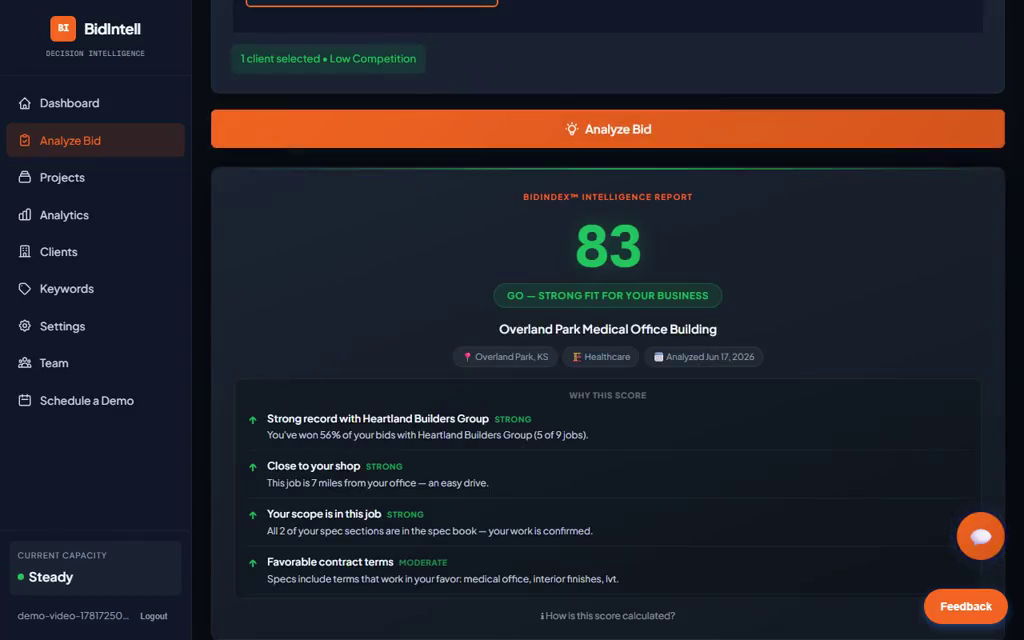
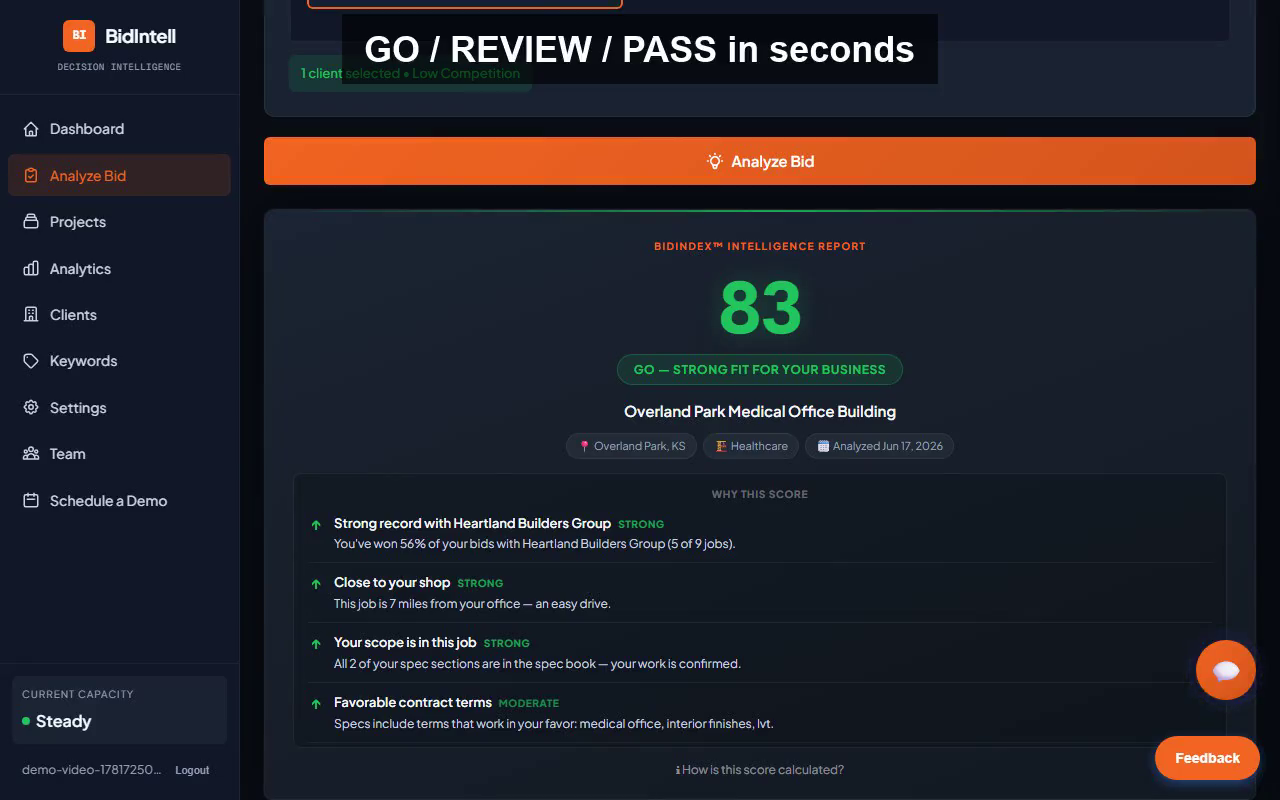
polish(landing): enlarge hero demo video + burn in step captions
Bigger: hero-grid visual column widened (0.95fr / 1.35fr) so the demo is the focal point. Wording: burned-in captions narrate the flow - 'Forward your bid invite' -> 'BidIntell scores it for your shop' -> 'GO / REVIEW / PASS in seconds' - so the cursorless capture explains itself. Re-rendered at native 1280x800 (webm 414KB / mp4 262KB).

diff --git a/index.html b/index.html
@@ -437,8 +437,8 @@ img { max-width: 100%; display: block; }
 
 .hero-grid {
   display: grid;
-  grid-template-columns: 1fr 1fr;
-  gap: 64px;
+  grid-template-columns: 0.95fr 1.35fr;
+  gap: 56px;
   align-items: center;
   position: relative;
 }